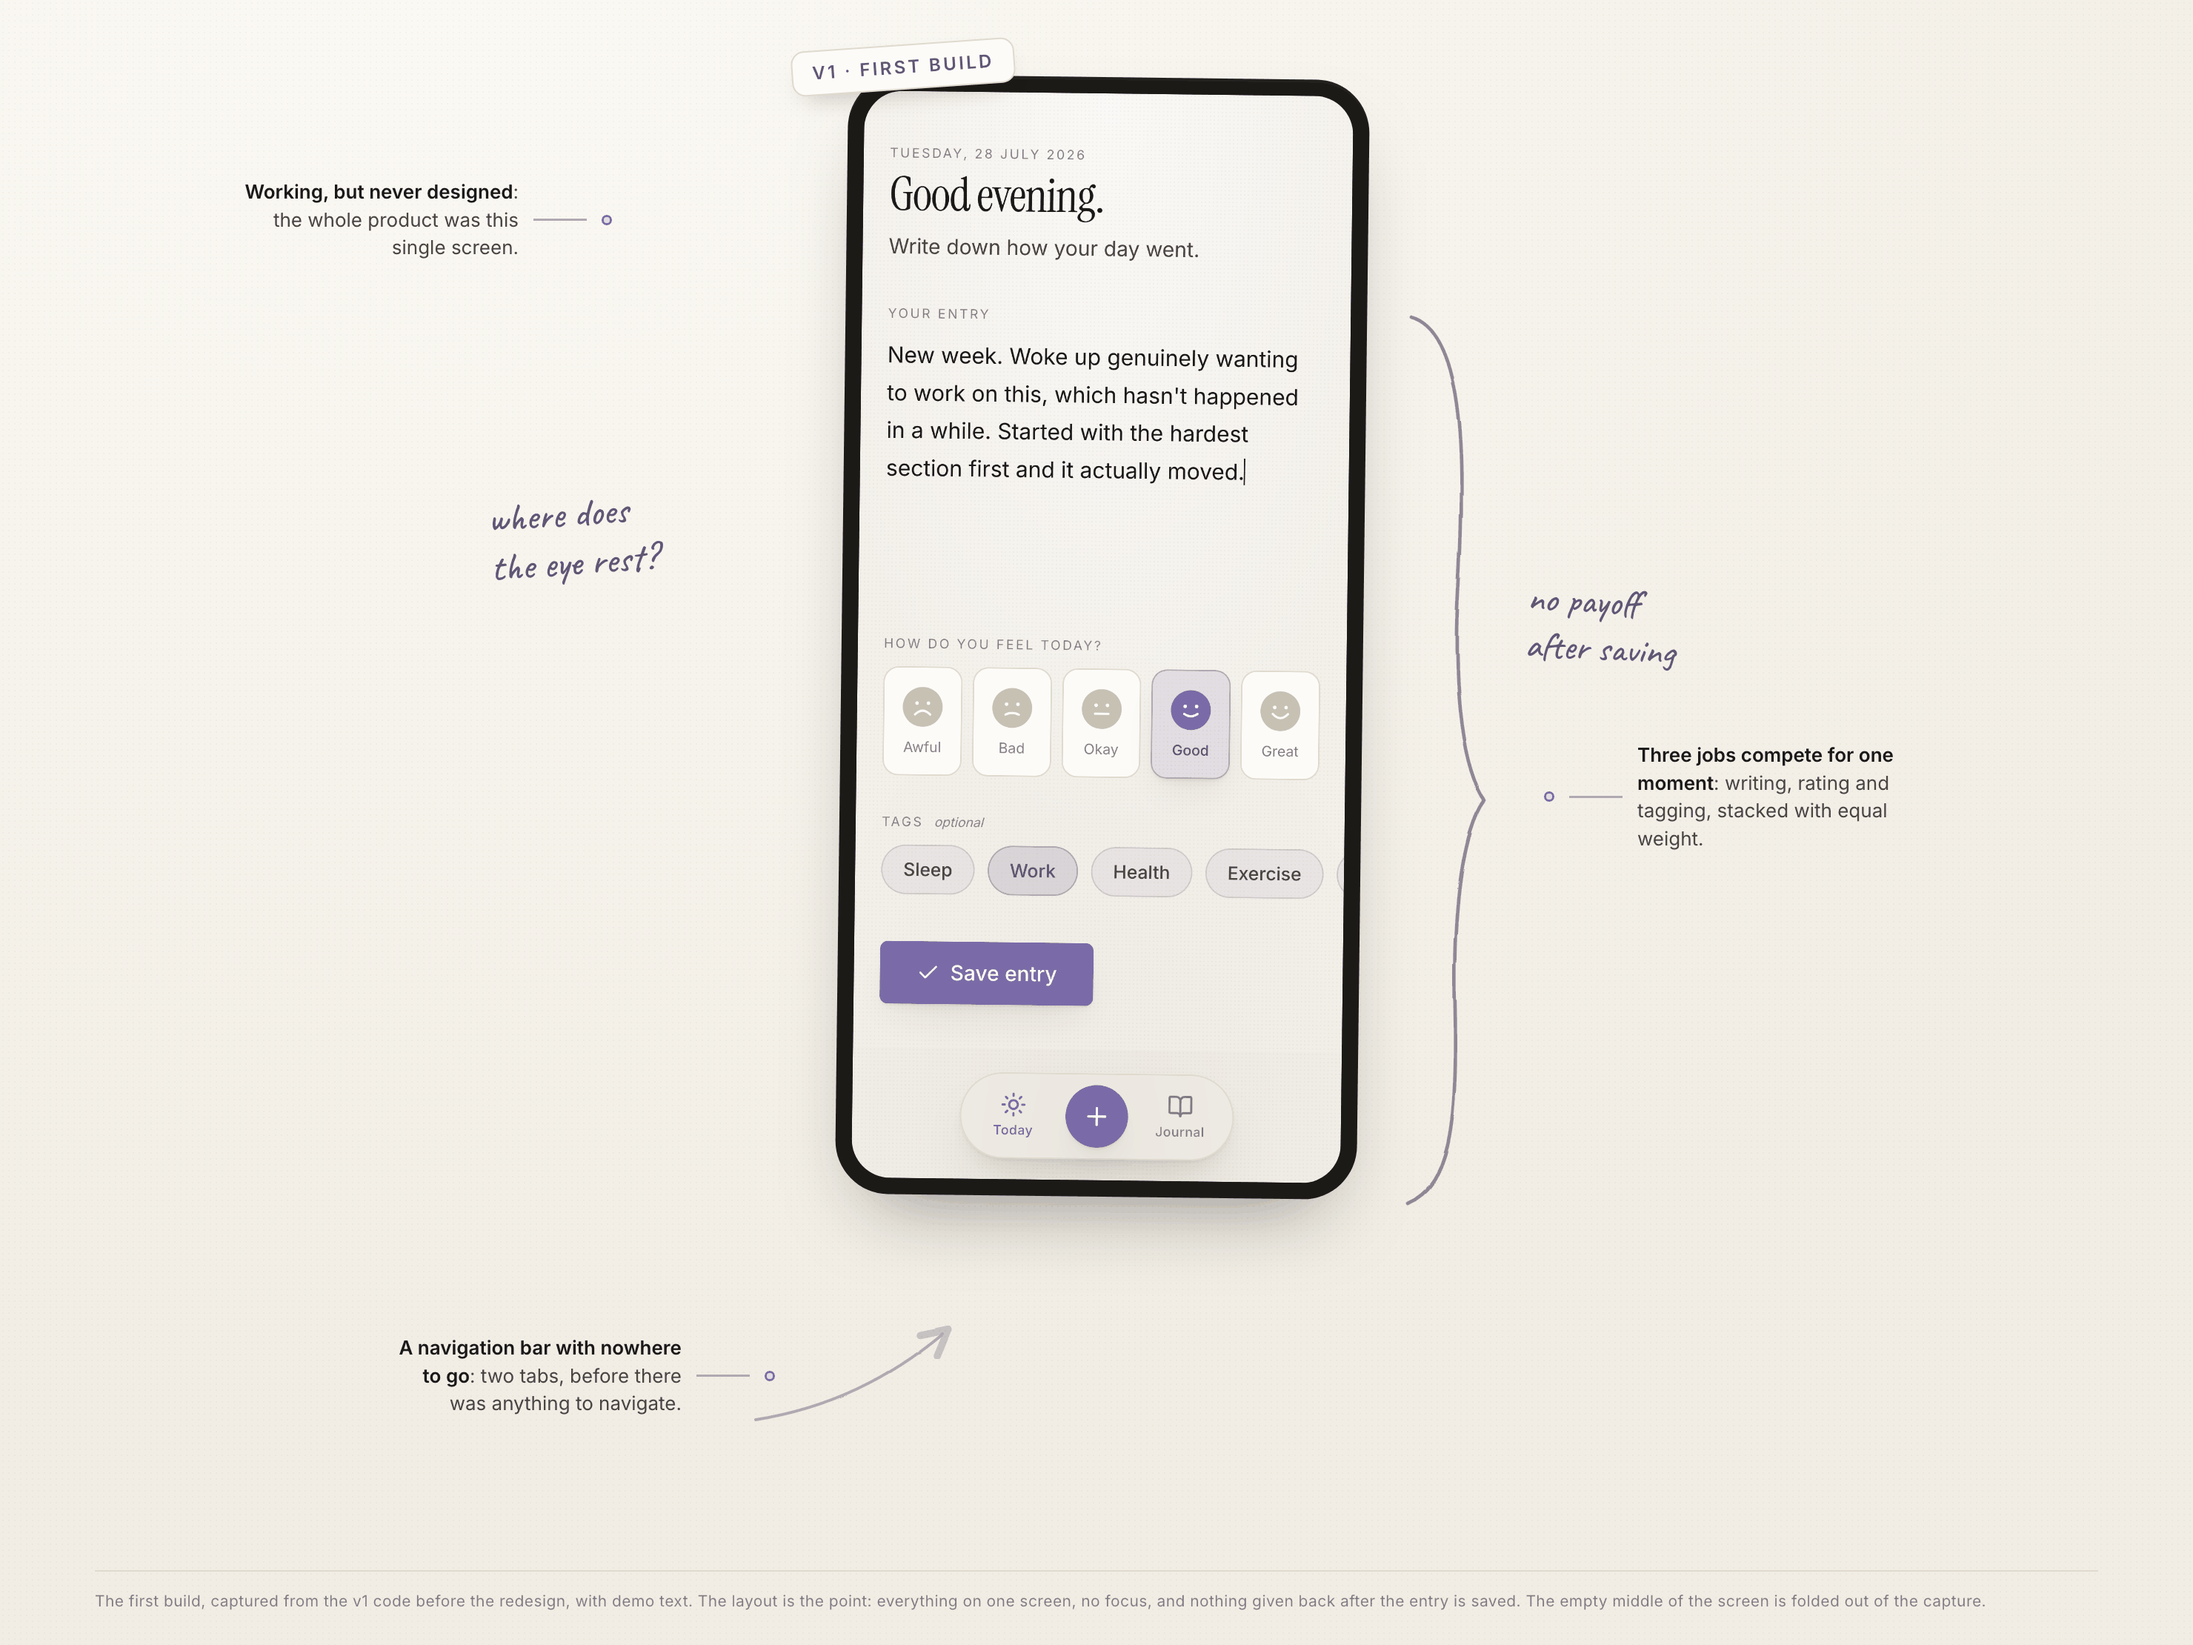
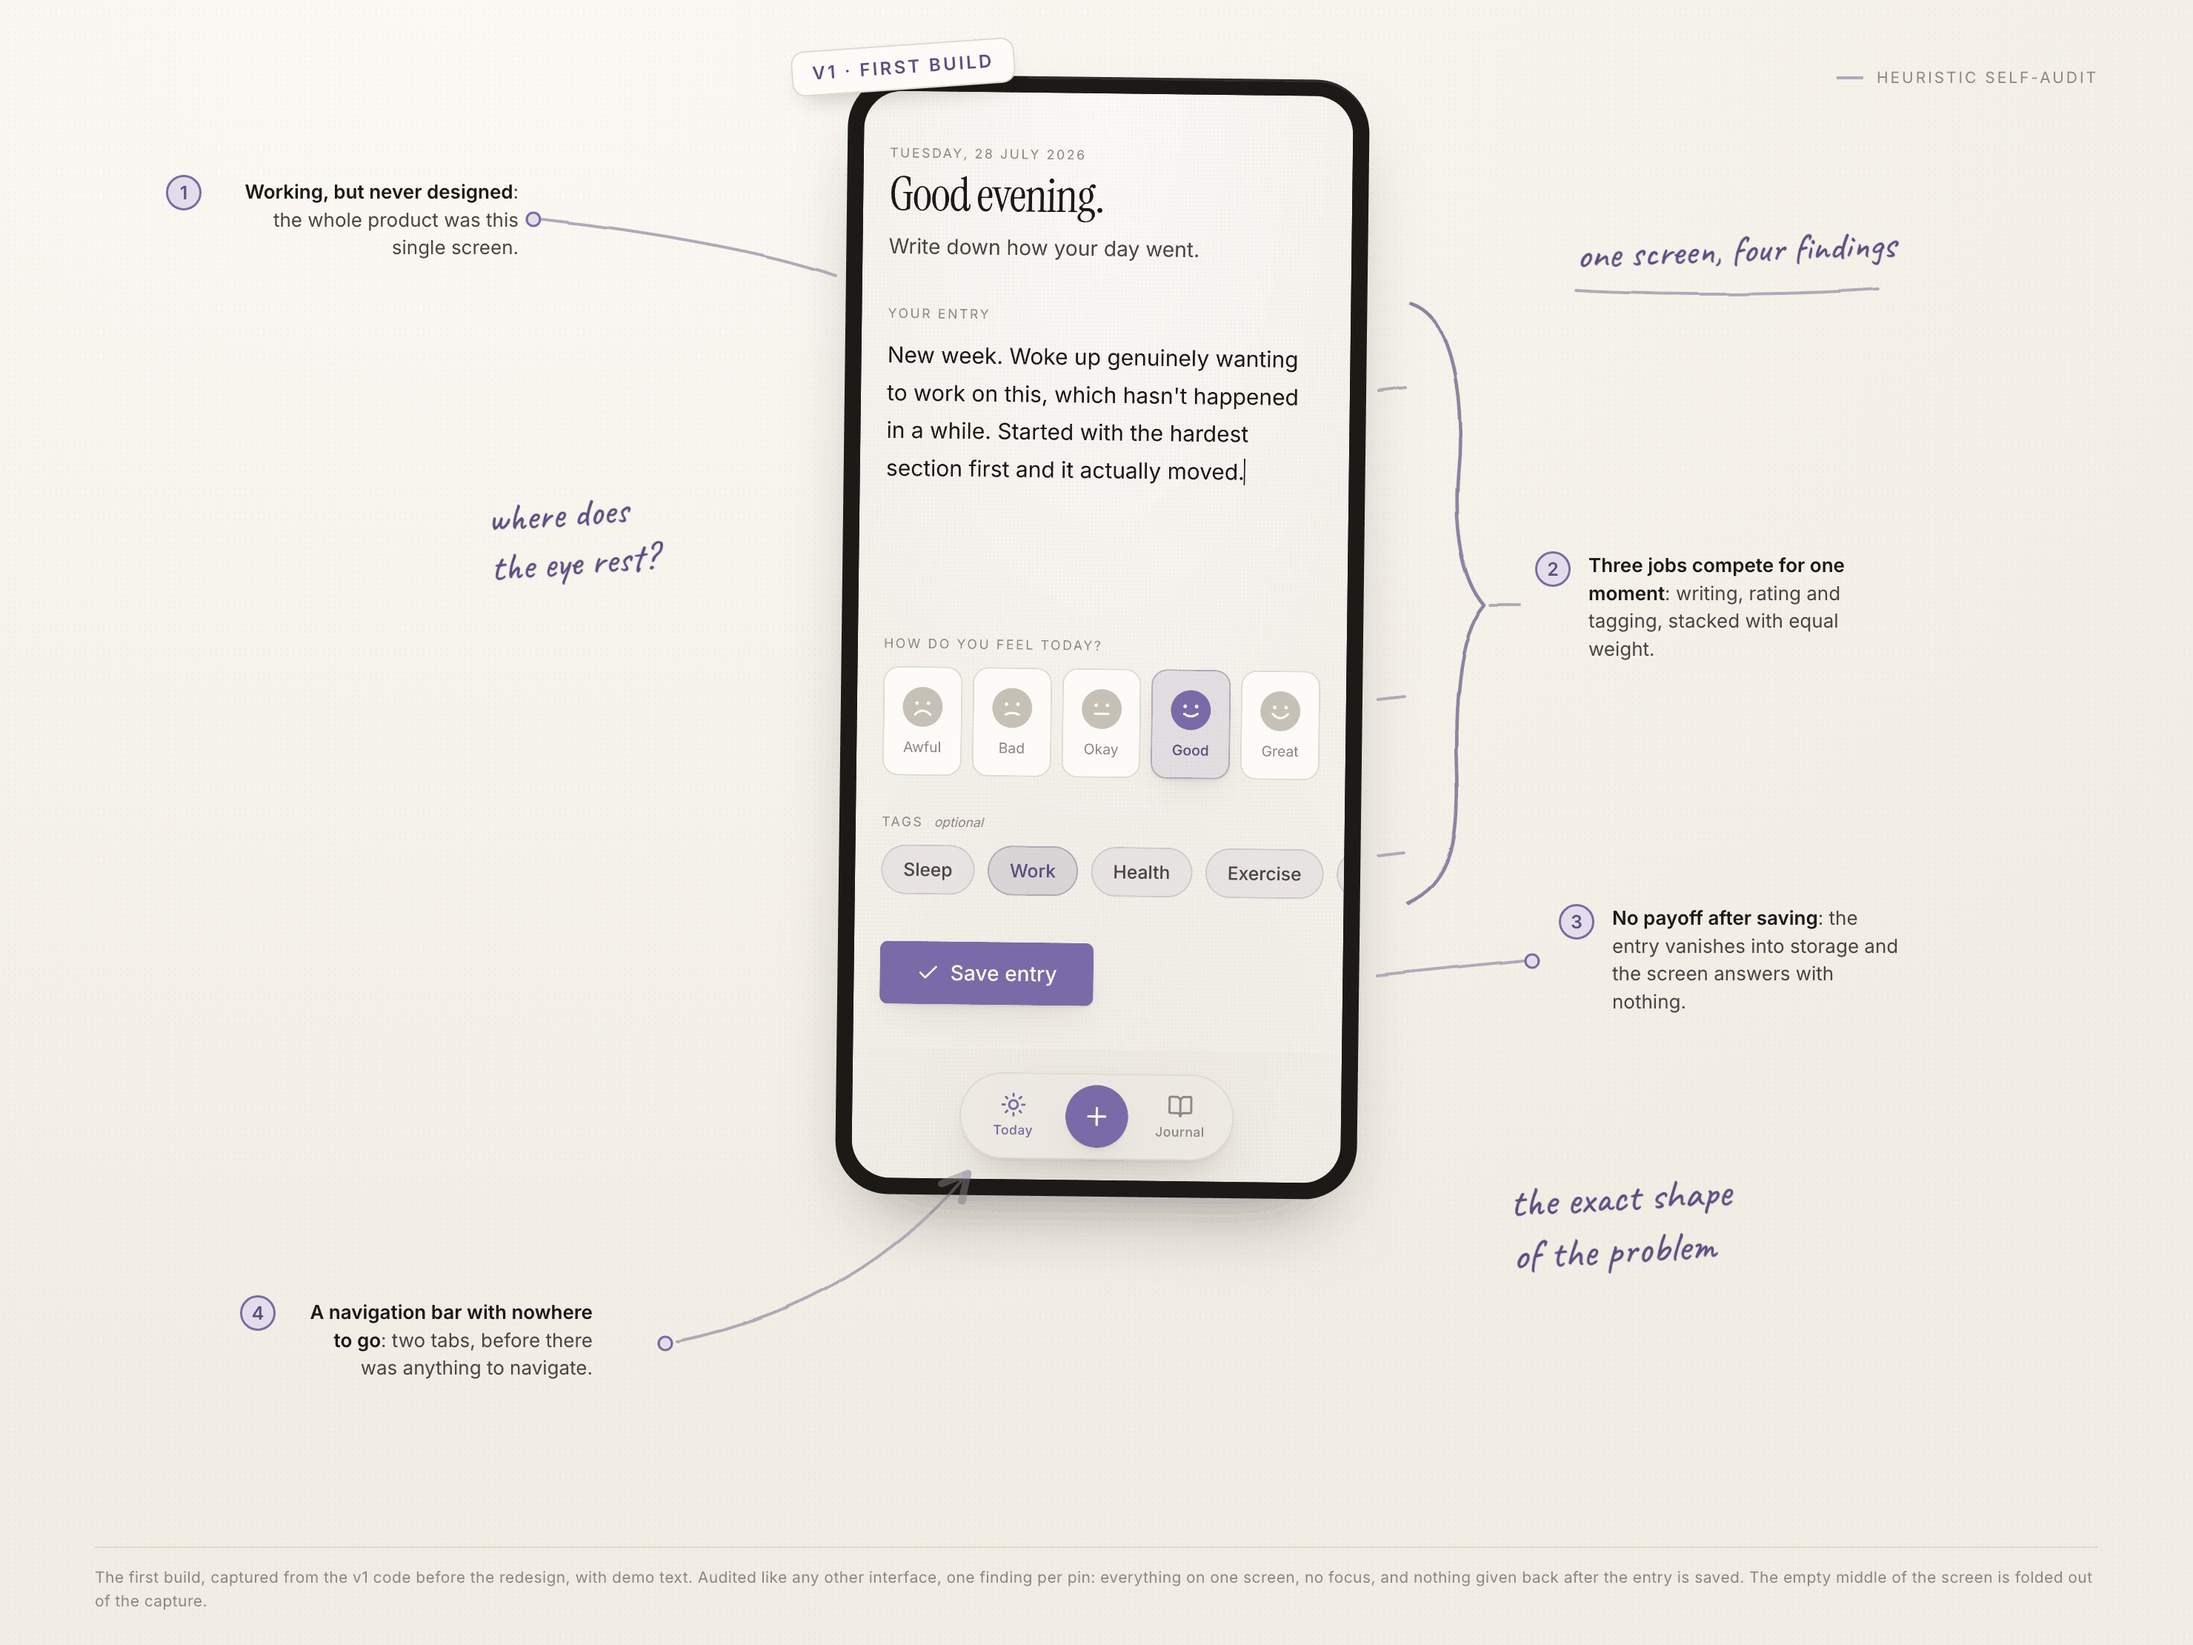
Between the Lines: four sketch plates rebuilt, three redundant ones cut
Per her review of the annotated plates:
- landscape, roadmap and dictation plates removed — they repeated the
  text beside them; sections 03, 09 and 13 now carry the story in prose
- chatbot: broken marks gone, every note leads to its bubble; new
  counterpoint (the week's record the bot cannot see) and the question
  a grounded companion would hand back — the section-11 answer, teased
- before: reframed as a numbered heuristic self-audit, four pinned
  findings, arrow that actually lands on the nav bar
- principle: three borrowed foundations flow into the product line,
  the refused card sits off the flow with the strike kept off the title
- trend: leads touch the legend, the sentence and the button; a
  "Russell's two axes, applied" sticker ties back to plate 06
- every plate carries a small method stamp (desk research, heuristic
  self-audit, evidence-based design, applied psychology + privacy)

diff --git a/between-the-lines.html b/between-the-lines.html
@@ -582,13 +582,9 @@ const ASSETS = {
     cap:{en:'The quiet risk, sketched: a chat that nods along, states things confidently, and knows nothing about the person\'s week.',
          no:'Den stille faren, skissert: en chat som nikker med, uttaler seg selvsikkert, og ikke vet noe om personens uke.'} },
 
-  landscape:{ type:'img', src:'between-the-lines/assets/landscape.png', wide:true,
-    cap:{en:'The two extremes, sketched: the blank page and the emoji row, and the gap between them.',
-         no:'De to ytterpunktene, skissert: den blanke siden og emoji-raden, og gapet mellom dem.'} },
-
   before:{ type:'img', src:'between-the-lines/assets/before.png', wide:true,
-    cap:{en:'v1, captured from the first build: writing, rating and tagging crammed onto one screen, with demo text.',
-         no:'v1, hentet fra den første versjonen: skriving, vurdering og merking klemt inn på én skjerm, med demotekst.'} },
+    cap:{en:'v1 from the first build, audited finding by finding: writing, rating and tagging crammed onto one screen, with demo text.',
+         no:'v1 fra den første versjonen, gjennomgått funn for funn: skriving, vurdering og merking klemt inn på én skjerm, med demotekst.'} },
 
   principle:{ type:'img', src:'between-the-lines/assets/principle.png', wide:true,
     cap:{en:'The evidence base as the design partner: borrowed psychology, one refused shortcut, and the line that runs under everything.',
@@ -605,10 +601,6 @@ const ASSETS = {
   grid:{ type:'img', src:'between-the-lines/assets/flow-2-reflect-affectgrid.png', shape:'phone',
     cap:{en:'The reflect step — the Affect Grid places one dot and reads it back as mood and energy.',
          no:'Refleksjonssteget — Affect Grid plasserer én prikk og leser den tilbake som humør og energi.'} },
-
-  dictation:{ type:'img', src:'between-the-lines/assets/dictation.png', wide:true,
-    cap:{en:'The dictation rebuild: the browser speech API failed silently outside Chrome, so recording plus server-side Whisper replaced it.',
-         no:'Ombyggingen av dikteringen: nettleserens tale-API feilet stille utenfor Chrome, så opptak pluss Whisper på serversiden erstattet det.'} },
 
   card:{ type:'img', src:'between-the-lines/assets/mobile-reflection-detail.png', shape:'phone',
     cap:{en:'A reflection in detail — the on-device conclusion with the honest privacy note underneath.',
@@ -628,11 +620,7 @@ const ASSETS = {
 
   inhands:{ type:'img', wide:true, src:'between-the-lines/assets/in-hands.jpg',
     cap:{en:'Between the Lines in the hand: the journal home with the week\'s trend, in a lifestyle photo.',
-         no:'Mellom linjene i hånden: dagbok-hjemmet med ukens trend, i et livsstilsfoto.'} },
-
-  roadmap:{ type:'img', src:'between-the-lines/assets/roadmap.png', wide:true,
-    cap:{en:'The forward frame: live today, real journalers next, and a longitudinal reading of language after that.',
-         no:'Blikket framover: live i dag, ekte dagbokskrivere som neste steg, og en langsgående lesning av språket etter det.'} }
+         no:'Mellom linjene i hånden: dagbok-hjemmet med ukens trend, i et livsstilsfoto.'} }
 };
 
 const SECTIONS = [
@@ -674,8 +662,7 @@ const SECTIONS = [
     body:{
       en:['The tools meant for reflection sit at two unhelpful extremes. The blank page gives you nowhere to start. The mood tracker <strong>shrinks a whole day to one tapped face</strong> and never says anything back. <strong>Neither closes the loop between writing and understanding</strong>, which is the reason to keep a journal at all.'],
       no:['Verktøyene som er ment for refleksjon havner på to lite nyttige ytterpunkter. Den blanke siden gir deg ingen steder å begynne. Humør-telleren <strong>krymper en hel dag til ett trykket ansikt</strong> og sier aldri noe tilbake. <strong>Ingen av dem lukker sløyfen mellom å skrive og å forstå</strong>, som er hele grunnen til å føre dagbok.']
-    },
-    assets:['landscape']
+    }
   },
   {
     id:'norway', nav:{en:'The Norwegian frame',no:'Den norske rammen'},
@@ -767,8 +754,7 @@ const SECTIONS = [
     body:{
       en:['Voice input was added to lower the barrier to writing, first on the browser’s built-in speech API. <strong>It failed silently outside Chrome.</strong> It was torn out and <strong>rebuilt to record audio and transcribe it server-side with Whisper</strong>, which works everywhere, including mobile. A small, honest loop of build, test and adapt, with a concrete cause.'],
       no:['Taleinnput ble lagt til for å senke terskelen for å skrive, først på nettleserens innebygde tale-API. <strong>Den feilet stille utenfor Chrome.</strong> Den ble revet ut og <strong>bygget om til å ta opp lyd og transkribere den på serversiden med Whisper</strong>, som fungerer overalt, også på mobil. En liten, ærlig sløyfe av bygg, test og tilpass, med en konkret årsak.']
-    },
-    assets:['dictation']
+    }
   },
   {
     id:'betweenlines', nav:{en:'Between the lines',no:'Mellom linjene'},
@@ -834,8 +820,7 @@ const SECTIONS = [
     close:{
       en:'The product will keep developing: real journalers first, then deeper analysis of language over time.',
       no:'Produktet vil fortsette å utvikle seg: ekte dagbokskrivere først, deretter dypere analyse av språk over tid.'
-    },
-    assets:['roadmap']
+    }
   },
   {
     id:'sources', nav:{en:'Sources',no:'Kilder'},
